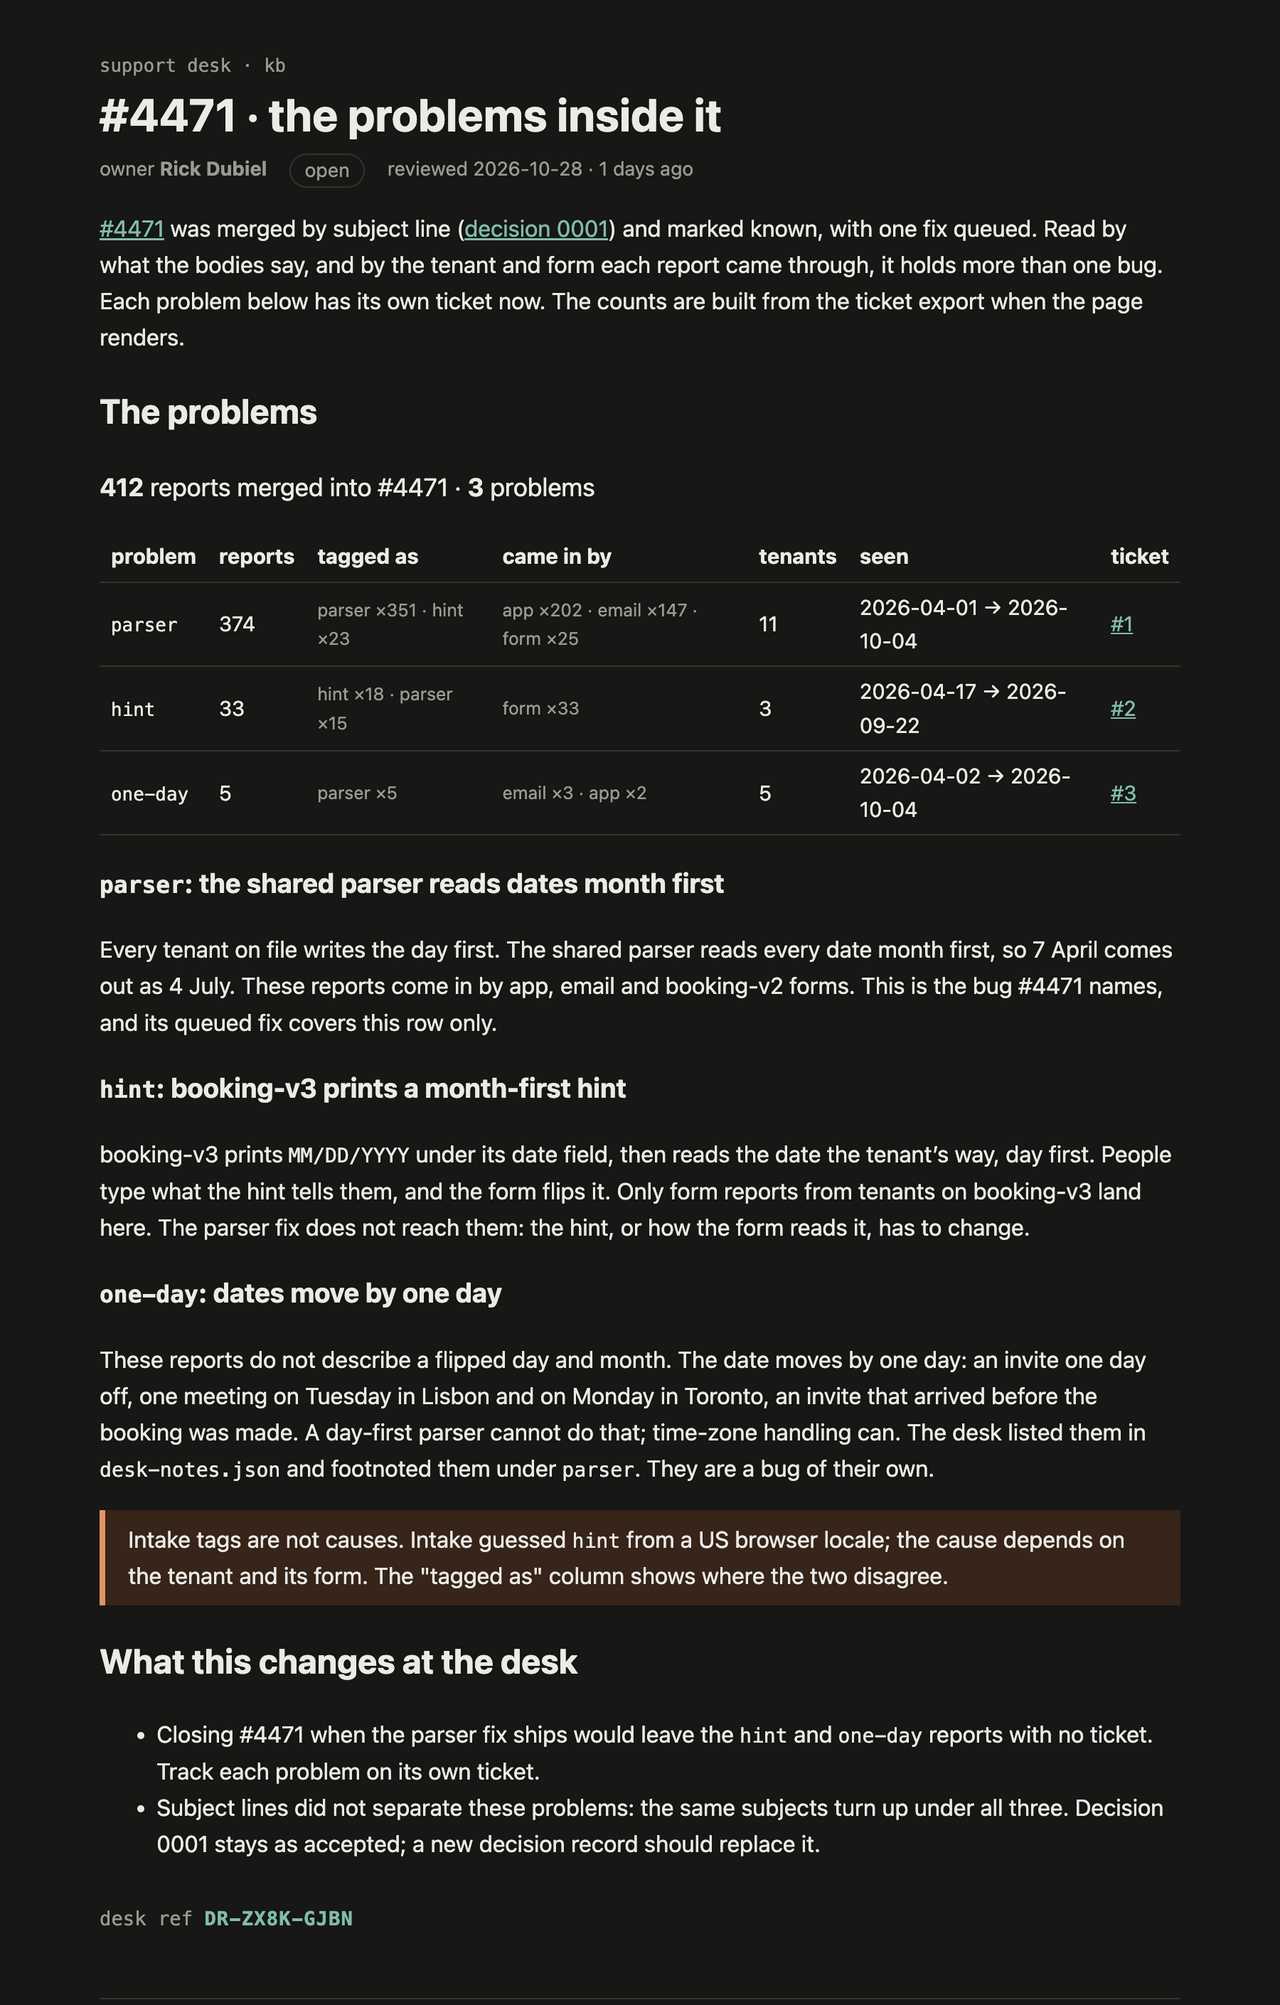
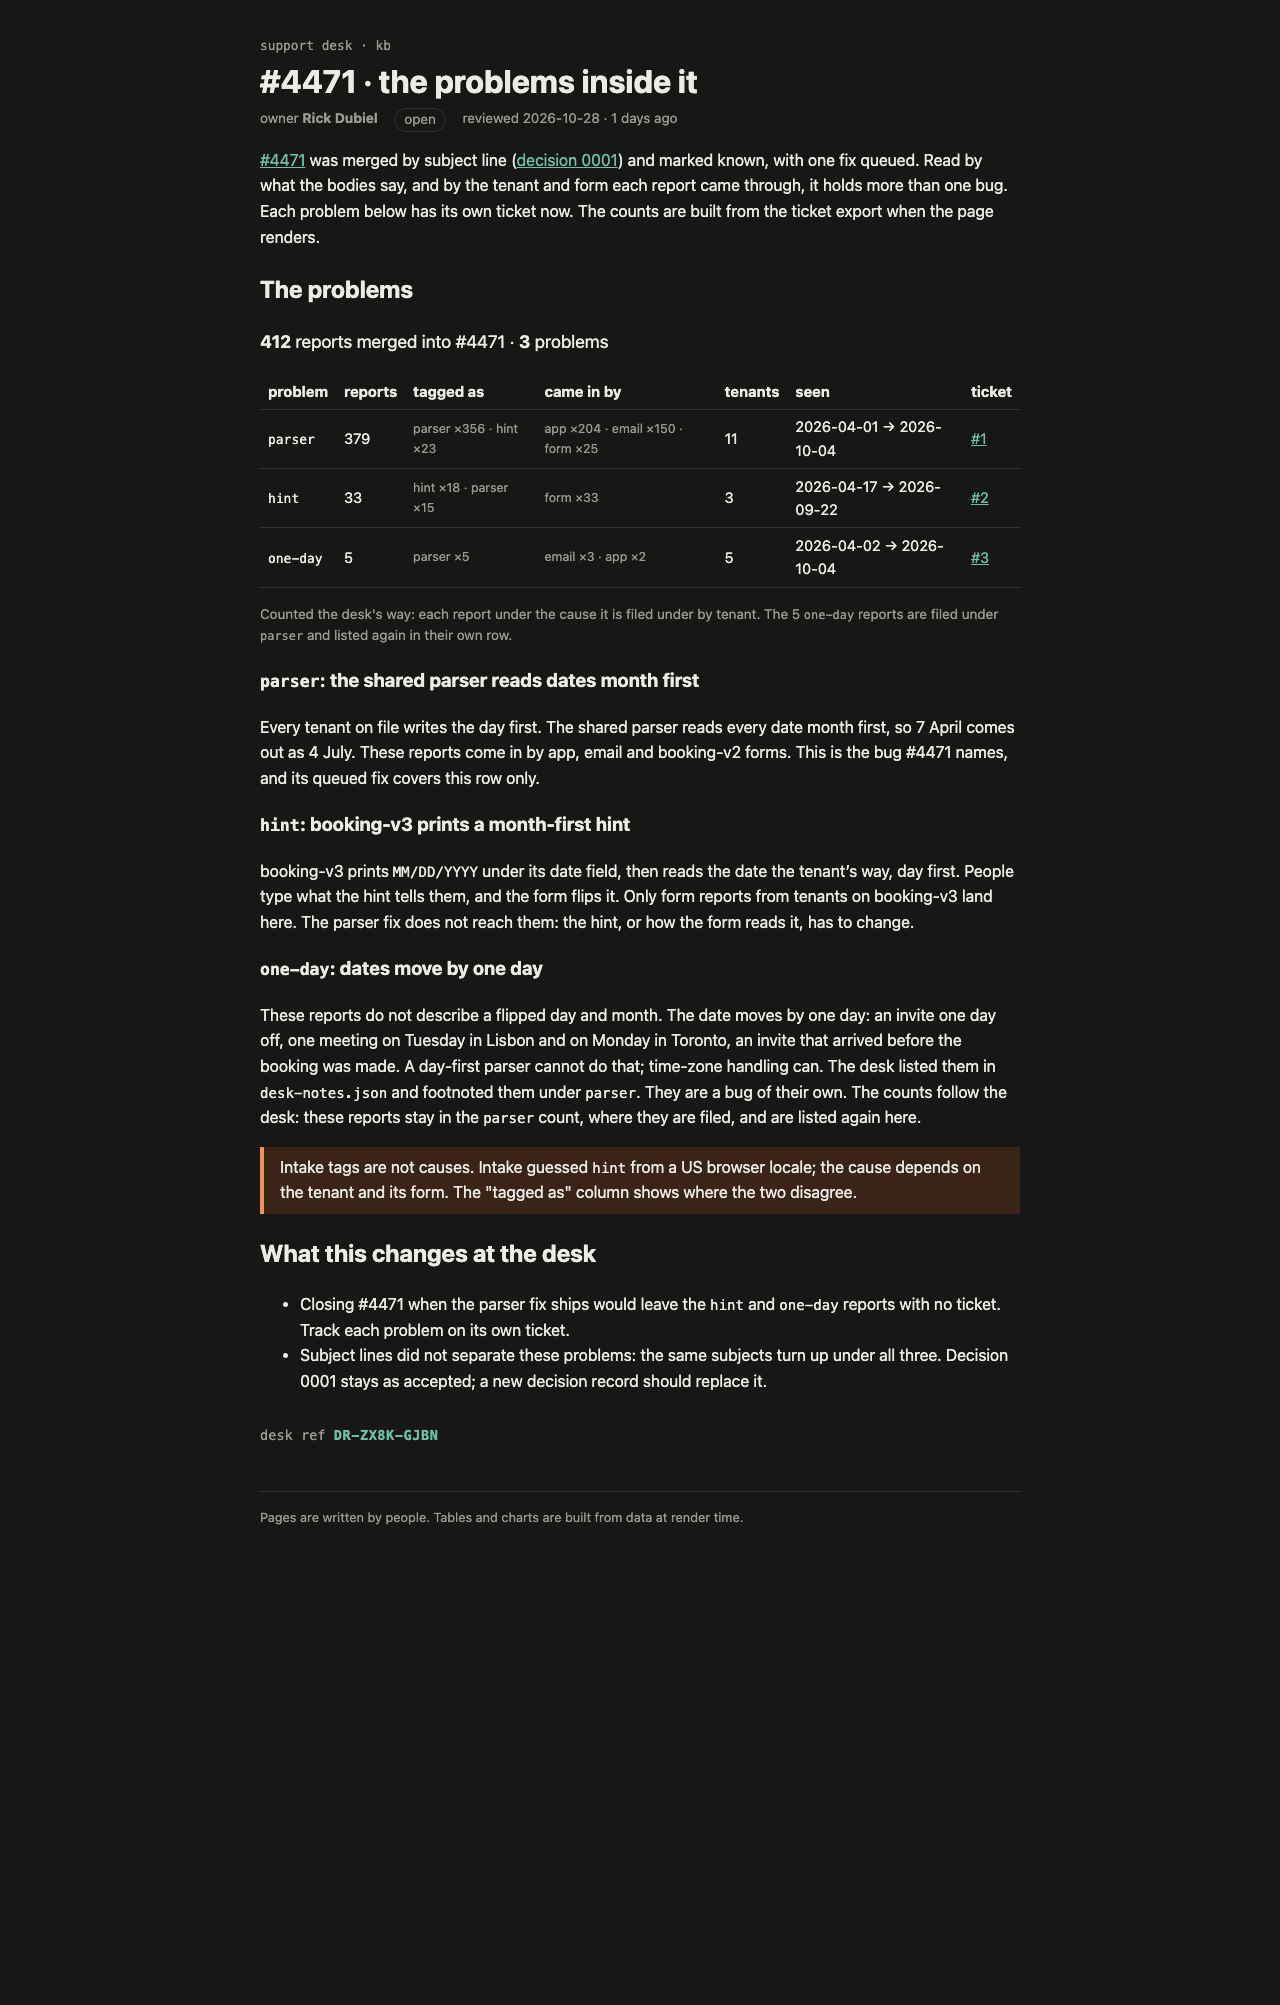
Count #4471's problems the desk's way
The desk's CauseTable counts every report under the cause it is filed
under by tenant and footnotes the one-day moves. parser is now 379 (it
includes the 5 one-day reports), hint 33, one-day 5 listed again.

diff --git a/rendered/kb-incidents-4471-problems.html b/rendered/kb-incidents-4471-problems.html
@@ -3,39 +3,22 @@
   <head>
     <meta charset="utf-8" />
     <meta name="viewport" content="width=device-width, initial-scale=1" />
-    
-		
-		
-		
-		
-		
-		
-		
-		
-		
-		
-		
-		
-		
-		<!--e2jw2j--><!----><title>#4471 · the problems inside it · support kb</title>
+    <!--e2jw2j--><!----><title>#4471 · the problems inside it · support kb</title>
 		<style>
 :root{--bg:#fbfaf7;--fg:#1d1d1b;--muted:#6b6a66;--line:#e3e0d8;--accent:#2f6f5e;--warn:#b4501f;--warn-bg:#fbeee6;--note-bg:#eef5f2;--mono:ui-monospace, "Cascadia Code", Menlo, monospace}@media (prefers-color-scheme:dark){:root{--bg:#171716;--fg:#ecebe6;--muted:#9c9a93;--line:#34332f;--accent:#6fbfa6;--warn:#f0905d;--warn-bg:#3a2418;--note-bg:#1d2c27}}body{background:var(--bg);color:var(--fg);margin:0;font:16px/1.6 system-ui,sans-serif}.kb table{border-collapse:collapse;width:100%;margin:1rem 0;font-size:.92rem}.kb th,.kb td{border-bottom:1px solid var(--line);text-align:left;padding:.35rem .5rem}.kb code{font-family:var(--mono);font-size:.88em}.kb a{color:var(--accent)}.kb.svelte-e2jw2j{max-width:760px;margin:0 auto;padding:2rem 16px 4rem}.crumb.svelte-e2jw2j{font:.8rem var(--mono);color:var(--muted);text-decoration:none}h1.svelte-e2jw2j{margin:.25rem 0 .5rem;line-height:1.2}.meta.svelte-e2jw2j{color:var(--muted);flex-wrap:wrap;gap:.5rem 1rem;margin:0;font-size:.85rem;display:flex}.status.svelte-e2jw2j{border:1px solid var(--line);border-radius:99px;padding:0 .6rem}.stale.svelte-e2jw2j{color:var(--warn);font-weight:600}.banner.svelte-e2jw2j{background:var(--warn-bg);color:var(--warn);border-radius:6px;padding:.6rem 1rem}footer.svelte-e2jw2j{color:var(--muted);border-top:1px solid var(--line);margin-top:3rem;padding-top:1rem;font-size:.8rem}
-
 </style>
 		<style>
 aside.svelte-17bri61{border-left:4px solid var(--accent);background:var(--note-bg);margin:1rem 0;padding:.5rem 1rem}aside.warn.svelte-17bri61{border-color:var(--warn);background:var(--warn-bg)}
-
 </style>
 		<style>
 .sum.svelte-1op6c6{font-size:1.1rem}.small.svelte-1op6c6{color:var(--muted);font-size:.85em}.none.svelte-1op6c6{color:var(--warn);font-weight:600}.stamp.svelte-1280m42{font:.85rem var(--mono);color:var(--muted);margin:2rem 0 0}.stamp.svelte-1280m42 b:where(.svelte-1280m42){color:var(--accent);letter-spacing:.04em}.missing.svelte-1280m42{color:var(--warn)}
-
 </style>
   </head>
   <body data-sveltekit-preload-data="hover">
     <div style="display: contents"><!--[--><!--[--><!--[0--><!--[--><!--[--><!--[-1--><!--[--><div class="kb svelte-e2jw2j"><header><a class="crumb svelte-e2jw2j" href="/kb">support desk · kb</a> <h1 class="svelte-e2jw2j">#4471 · the problems inside it</h1> <p class="meta svelte-e2jw2j"><span>owner <b>Rick Dubiel</b></span> <span class="status open svelte-e2jw2j">open</span> <span class="svelte-e2jw2j">reviewed 2026-10-28 · 1 days ago</span></p></header> <!--[-1--><!--]--> <main><p><a href="/kb/incidents/4471">#4471</a> was merged by subject line (<a href="/kb/decisions/0001-dedupe-by-subject">decision 0001</a>)
 and marked known, with one fix queued. Read by what the bodies say, and by the tenant and form each
 report came through, it holds more than one bug. Each problem below has its own ticket now. The
-counts are built from the ticket export when the page renders.</p> <h2>The problems</h2> <p class="sum svelte-1op6c6"><strong>412</strong> reports merged into #4471 · <strong>3</strong> problems</p> <table><thead><tr><th>problem</th><th>reports</th><th>tagged as</th><th>came in by</th><th>tenants</th><th>seen</th><th>ticket</th></tr></thead><tbody><!--[--><tr><td><code>parser</code></td><td>374</td><td class="small svelte-1op6c6">parser ×351 · hint ×23</td><td class="small svelte-1op6c6">app ×202 · email ×147 · form ×25</td><td>11</td><td>2026-04-01 → 2026-10-04</td><td><!--[0--><a href="https://github.com/rickdubiel/mega-S01E03/issues/1">#1</a><!--]--></td></tr><tr><td><code>hint</code></td><td>33</td><td class="small svelte-1op6c6">hint ×18 · parser ×15</td><td class="small svelte-1op6c6">form ×33</td><td>3</td><td>2026-04-17 → 2026-09-22</td><td><!--[0--><a href="https://github.com/rickdubiel/mega-S01E03/issues/2">#2</a><!--]--></td></tr><tr><td><code>one-day</code></td><td>5</td><td class="small svelte-1op6c6">parser ×5</td><td class="small svelte-1op6c6">email ×3 · app ×2</td><td>5</td><td>2026-04-02 → 2026-10-04</td><td><!--[0--><a href="https://github.com/rickdubiel/mega-S01E03/issues/3">#3</a><!--]--></td></tr><!--]--></tbody></table><!----> <h3><code>parser</code>: the shared parser reads dates month first</h3> <p>Every tenant on file writes the day first. The shared parser reads every date month first, so
+counts are built from the ticket export when the page renders.</p> <h2>The problems</h2> <p class="sum svelte-1op6c6"><strong>412</strong> reports merged into #4471 · <strong>3</strong> problems</p> <table><thead><tr><th>problem</th><th>reports</th><th>tagged as</th><th>came in by</th><th>tenants</th><th>seen</th><th>ticket</th></tr></thead><tbody><!--[--><tr><td><code>parser</code></td><td>379</td><td class="small svelte-1op6c6">parser ×356 · hint ×23</td><td class="small svelte-1op6c6">app ×204 · email ×150 · form ×25</td><td>11</td><td>2026-04-01 → 2026-10-04</td><td><!--[0--><a href="https://github.com/rickdubiel/mega-S01E03/issues/1">#1</a><!--]--></td></tr><tr><td><code>hint</code></td><td>33</td><td class="small svelte-1op6c6">hint ×18 · parser ×15</td><td class="small svelte-1op6c6">form ×33</td><td>3</td><td>2026-04-17 → 2026-09-22</td><td><!--[0--><a href="https://github.com/rickdubiel/mega-S01E03/issues/2">#2</a><!--]--></td></tr><tr><td><code>one-day</code></td><td>5</td><td class="small svelte-1op6c6">parser ×5</td><td class="small svelte-1op6c6">email ×3 · app ×2</td><td>5</td><td>2026-04-02 → 2026-10-04</td><td><!--[0--><a href="https://github.com/rickdubiel/mega-S01E03/issues/3">#3</a><!--]--></td></tr><!--]--></tbody></table> <!--[0--><p class="small svelte-1op6c6">Counted the desk's way: each report under the cause it is filed under by tenant. The 5 <code>one-day</code> reports are filed under <code>parser</code> and listed again in their own row.</p><!--]--><!----> <h3><code>parser</code>: the shared parser reads dates month first</h3> <p>Every tenant on file writes the day first. The shared parser reads every date month first, so
 7 April comes out as 4 July. These reports come in by app, email and booking-v2 forms. This is the
 bug #4471 names, and its queued fix covers this row only.</p> <h3><code>hint</code>: booking-v3 prints a month-first hint</h3> <p>booking-v3 prints <code>MM/DD/YYYY</code> under its date field, then reads the date the tenant’s way, day
 first. People type what the hint tells them, and the form flips it. Only form reports from tenants
@@ -43,7 +26,9 @@ on booking-v3 land here. The parser fix does not reach them: the hint, or how th
 has to change.</p> <h3><code>one-day</code>: dates move by one day</h3> <p>These reports do not describe a flipped day and month. The date moves by one day: an invite one day
 off, one meeting on Tuesday in Lisbon and on Monday in Toronto, an invite that arrived before the
 booking was made. A day-first parser cannot do that; time-zone handling can. The desk listed them
-in <code>desk-notes.json</code> and footnoted them under <code>parser</code>. They are a bug of their own.</p> <aside class="warn svelte-17bri61"><!---->Intake tags are not causes. Intake guessed <code>hint</code> from a US browser locale; the cause
+in <code>desk-notes.json</code> and footnoted them under <code>parser</code>. They are a bug of their own. The counts
+follow the desk: these reports stay in the <code>parser</code> count, where they are filed, and are listed again
+here.</p> <aside class="warn svelte-17bri61"><!---->Intake tags are not causes. Intake guessed <code>hint</code> from a US browser locale; the cause
 depends on the tenant and its form. The "tagged as" column shows where the two disagree.<!----></aside><!----> <h2>What this changes at the desk</h2> <ul><li>Closing #4471 when the parser fix ships would leave the <code>hint</code> and <code>one-day</code> reports with no
 ticket. Track each problem on its own ticket.</li> <li>Subject lines did not separate these problems: the same subjects turn up under all three.
 Decision 0001 stays as accepted; a new decision record should replace it.</li></ul> <!--[0--><p class="stamp svelte-1280m42">desk ref <b class="svelte-1280m42">DR-ZX8K-GJBN</b></p><!--]--><!----><!----></main> <footer class="svelte-e2jw2j">Pages are written by people. Tables and charts are built from data at render time.</footer></div><!--]--><!--]--><!--]--><!----><!--]--><!--]--><!--]--><!----> <!--[-1--><!--]--><!--]-->

diff --git a/src/lib/kb/problems.ts b/src/lib/kb/problems.ts
@@ -7,9 +7,11 @@ import { causeOf, uniqueById, type Report, type Tenant } from '#lib/kb/causes';
 export type Problem = 'parser' | 'hint' | 'one-day';
 export const PROBLEMS: readonly Problem[] = ['parser', 'hint', 'one-day'];
 
-export function problemOf(r: Report, t: Tenant | undefined, oneDayMove: readonly string[]): Problem | 'unplaced' {
-  if (oneDayMove.includes(r.id)) return 'one-day';
-  return causeOf(r, t) ?? 'unplaced';
+// Counted the desk's way (CauseTable): every report under the cause it is filed under by tenant.
+// `one-day` reports stay counted there too and are listed again as a problem of their own.
+export function problemsOf(r: Report, t: Tenant | undefined, oneDayMove: readonly string[]): (Problem | 'unplaced')[] {
+  const filed = causeOf(r, t) ?? 'unplaced';
+  return oneDayMove.includes(r.id) ? [filed, 'one-day'] : [filed];
 }
 
 export type ProblemGroup = {
@@ -32,8 +34,7 @@ export function splitTicket(
   const merged = uniqueById(all).filter((r) => r.mergedInto === ticket);
   const byProblem = new Map<ProblemGroup['problem'], Report[]>();
   for (const r of merged) {
-    const p = problemOf(r, tenantOf(r), oneDayMove);
-    byProblem.set(p, [...(byProblem.get(p) ?? []), r]);
+    for (const p of problemsOf(r, tenantOf(r), oneDayMove)) byProblem.set(p, [...(byProblem.get(p) ?? []), r]);
   }
   const count = (rs: Report[], key: (r: Report) => string) =>
     rs.reduce<Record<string, number>>((n, r) => ({ ...n, [key(r)]: (n[key(r)] ?? 0) + 1 }), {});

diff --git a/src/lib/kb/ProblemTable.svelte b/src/lib/kb/ProblemTable.svelte
@@ -3,13 +3,14 @@
   import notes from '#lib/data/desk-notes.json';
   import tickets from '#lib/data/tickets-4471.json';
   import { splitTicket } from '#lib/kb/problems';
-  import type { Report } from '#lib/kb/causes';
+  import { uniqueById, type Report } from '#lib/kb/causes';
   import { tenantOf } from '#lib/kb/locales';
 
   let { ticket }: { ticket: number } = $props();
 
   const groups = $derived(splitTicket(reports as Report[], ticket, tenantOf, notes.oneDayMove));
-  const total = $derived(groups.reduce((n, g) => n + g.reports.length, 0));
+  const total = $derived(uniqueById(reports as Report[]).filter((r) => r.mergedInto === ticket).length);
+  const oneDay = $derived(groups.find((g) => g.problem === 'one-day')?.reports.length ?? 0);
   const filed = tickets as Record<string, string | null>;
   const counts = (n: Record<string, number>) =>
     Object.entries(n)
@@ -44,6 +45,11 @@
     {/each}
   </tbody>
 </table>
+
+{#if oneDay}
+  <p class="small">Counted the desk's way: each report under the cause it is filed under by tenant. The {oneDay}
+    <code>one-day</code> reports are filed under <code>parser</code> and listed again in their own row.</p>
+{/if}
 
 <style>
   .sum { font-size: 1.1rem; }
